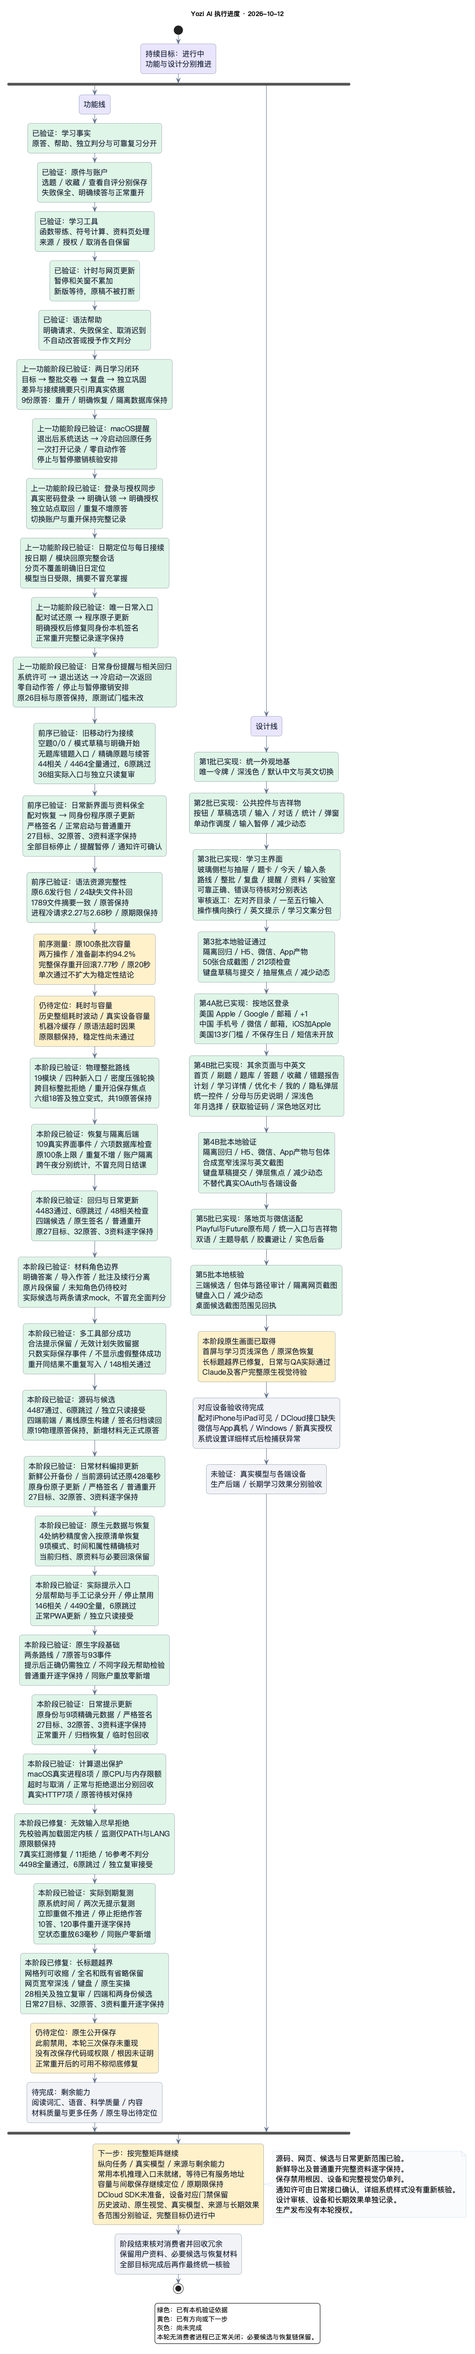
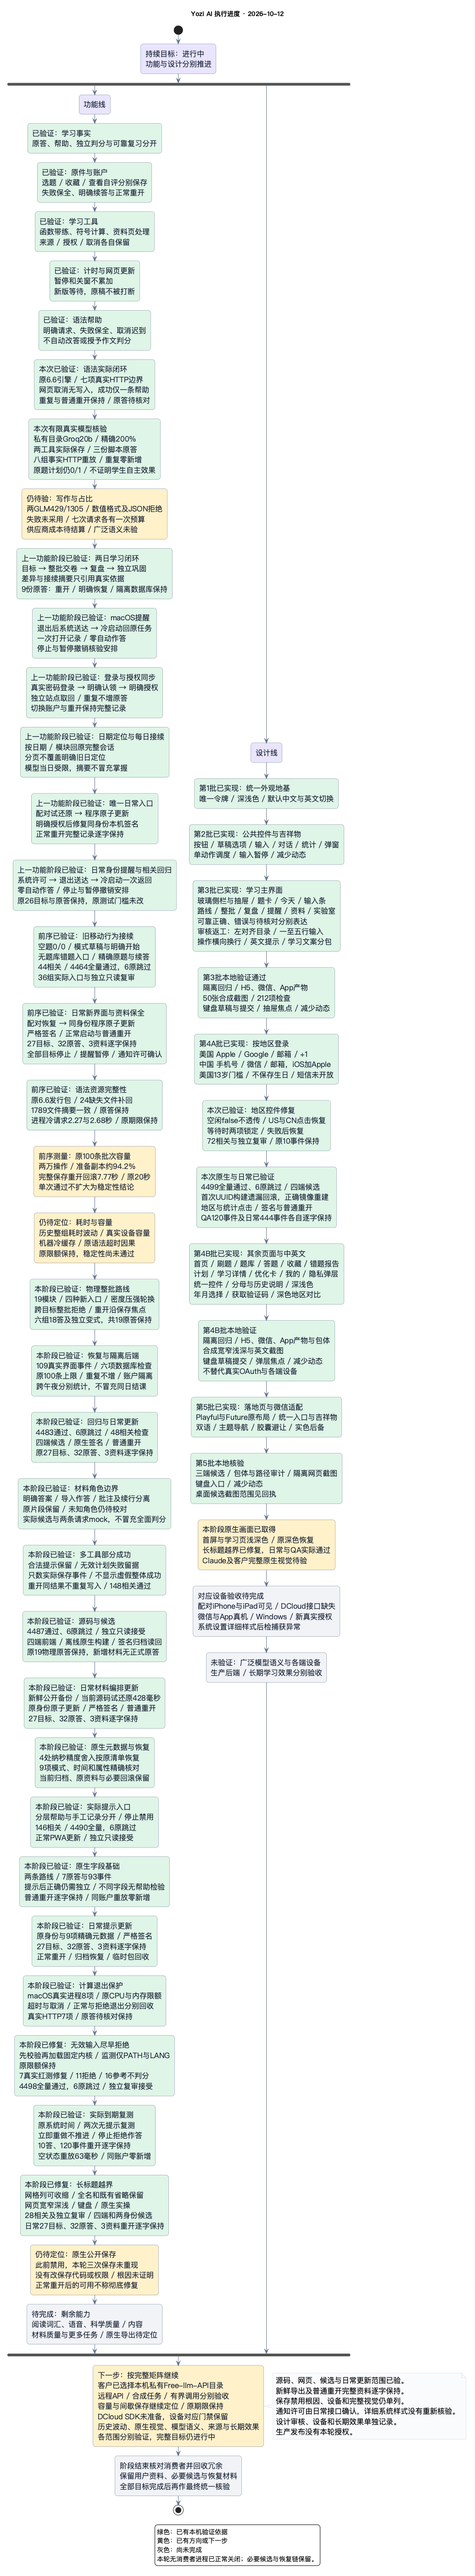
fix(learning): restore segmented controls and verify live model facts
Consume group disabled state and retain per-option focus guards.

Record native rollback, paired data and ordinary reopen acceptance.
Clarify numeric probes and compare every synced learning fact array.
Keep failed provider, format, device and semantic gates explicit.

Changed region(s): [[0.0309, 0.0, 0.9275, 0.999], [0.4019, 0.281, 0.742, 0.6556]]

diff --git a/tests/unit/yozi-components.spec.js b/tests/unit/yozi-components.spec.js
@@ -143,6 +143,41 @@ describe('canonical controls and drafts', () => {
     await w.findAll('button')[0].trigger('keydown', { key: 'End' });
     expect(w.emitted('update:modelValue').at(-1)).toEqual(['all']);
   });
+  it('segmented accepts idle selection and blocks pointer and keyboard selection while disabled', async () => {
+    const w = render(BaseSegmented, {
+      options: [
+        { value: 'US', label: '美国' },
+        { value: 'CN', label: '中国' },
+        { value: 'closed', label: '关闭', disabled: true }
+      ],
+      modelValue: 'US',
+      label: '地区',
+      disabled: false
+    });
+    // A fallthrough disabled="false" still matches the global [disabled] style.
+    expect(w.attributes('disabled')).toBeUndefined();
+    const tabs = w.findAll('[role="tab"]');
+    await tabs[1].trigger('tap');
+    await tabs[2].trigger('tap');
+    expect(w.emitted('update:modelValue')).toEqual([['CN']]);
+    await w.setProps({ disabled: true });
+    expect(tabs.every((tab) => tab.attributes('disabled') !== undefined)).toBe(true);
+    expect(tabs.map((tab) => tab.attributes('tabindex'))).toEqual(['-1', '-1', '-1']);
+    // Test Utils skips trigger() on disabled buttons; dispatch reaches the guards.
+    tabs[0].element.dispatchEvent(new Event('tap', { bubbles: true }));
+    tabs[0].element.dispatchEvent(new KeyboardEvent('keydown', { key: 'ArrowRight', bubbles: true, cancelable: true }));
+    await nextTick();
+    expect(w.emitted('update:modelValue')).toHaveLength(1);
+    await w.setProps({ disabled: false });
+    expect(w.attributes('disabled')).toBeUndefined();
+    expect(tabs[2].attributes('disabled')).toBeDefined();
+    expect(tabs.map((tab) => tab.attributes('tabindex'))).toEqual(['0', '-1', '-1']);
+    tabs[1].element.dispatchEvent(new Event('tap', { bubbles: true }));
+    tabs[0].element.dispatchEvent(new KeyboardEvent('keydown', { key: 'ArrowRight', bubbles: true, cancelable: true }));
+    await nextTick();
+    expect(w.emitted('update:modelValue')).toEqual([['CN'], ['CN'], ['CN']]);
+    expect(document.activeElement).toBe(tabs[1].element);
+  });
   it.each(['neutral', 'violet', 'mint', 'coral', 'apricot'])('renders the %s flat tag', (tone) =>
     expect(render(BaseTag, { tone }, { default: 'Status' }).classes()).toContain(`base-tag--${tone}`)
   );

diff --git a/src/components/base/base-segmented/base-segmented.vue b/src/components/base/base-segmented/base-segmented.vue
@@ -5,6 +5,7 @@
     :class="{ 'is-block': block }"
     role="tablist"
     :aria-label="label"
+    :aria-disabled="disabled"
     @keydown="keydown"
   >
     <button
@@ -14,8 +15,8 @@
       role="tab"
       :aria-selected="modelValue === item.value"
       :tabindex="tabIndex(index)"
-      :disabled="item.disabled"
-      :aria-disabled="Boolean(item.disabled)"
+      :disabled="disabled || item.disabled"
+      :aria-disabled="disabled || Boolean(item.disabled)"
       @tap="select(index)"
     >
       {{ item.label }}
@@ -28,6 +29,7 @@ const props = defineProps({
   modelValue: { type: [String, Number], default: '' },
   options: { type: Array, default: () => [] },
   label: { type: String, required: true },
+  disabled: Boolean,
   block: Boolean
 });
 const emit = defineEmits(['update:modelValue']);
@@ -42,19 +44,20 @@ onMounted(() => {
 onBeforeUnmount(() => keyboardElement?.removeEventListener?.('keydown', keydown));
 
 function tabIndex(index) {
+  if (props.disabled) return -1;
   const selected = props.options.findIndex((item) => item.value === props.modelValue && !item.disabled);
   return index === (selected < 0 ? props.options.findIndex((item) => !item.disabled) : selected) ? 0 : -1;
 }
 function select(index) {
   const option = props.options[index];
-  if (option && !option.disabled) emit('update:modelValue', option.value);
+  if (!props.disabled && option && !option.disabled) emit('update:modelValue', option.value);
 }
 function keydown(event) {
   // uni H5 also emits a wrapped event; only the native DOM listener owns keys.
   // #ifdef H5
   if (!event.currentTarget?.querySelectorAll) return;
   // #endif
-  if (event.defaultPrevented) return;
+  if (props.disabled || event.defaultPrevented) return;
   const controls = [...event.currentTarget.querySelectorAll('[role="tab"]')];
   const index = controls.indexOf(event.target.closest('[role="tab"]'));
   if (index < 0 || !['ArrowLeft', 'ArrowRight', 'Home', 'End', 'Enter', ' '].includes(event.key)) return;

diff --git a/docs/08C-SCRIPTS-REFERENCE.md b/docs/08C-SCRIPTS-REFERENCE.md
@@ -4,11 +4,15 @@
 
 ## 当前候选与本机资源
 
+2026-10-12 地区控件修复复用同一构建目录与原生缓存，四端前端与两种原生身份实际核验通过；本机语法实际HTTP和网页回执沿 `verification.json` 的 `grammarHttpBoundaries`，控件修复、首次错误构建目录后的回滚和当前候选沿 `regionControlFix`。日常程序须从带原资料UUID适配的既有隔离镜像构建；仓库根构建即使签名通过，也不会因此接回原资料。当前归档在实际更新、公开完整导出及普通重开通过后才提升。
+
+本轮私有目录模型验收复用 `verify-learning-live.mjs --catalog <本机私有目录> --provider <已审核供应商> --backend-dir tmp/stage1-mobile-20261011/backend --tasks <单一任务>`，显式固定隔离Mongo URI并核对27189/4383无其他消费者。每次一个供应商请求，无自动重试/回退，不执行目录HTML或读取.env；记录沿 `verification.json.freeCatalogContinuation` 和 `free-catalog-zhipu-20261012/` 内各供应商/任务目录，目录名保留初始归属。接口深重放不读取模型目录、不增加模型调用；日常原资料及真实产品界面模型验收分别成立。
+
 当前候选已接续至 `tmp/stage1-mobile-20261011/`：前端 `dist/build/{h5,mp-weixin,app,desktop}`、后端 `backend/`、共享依赖的隔离构建源码 `build-source/`；当前签名程序归档固定为 `desktop-candidate.zip`，不保留可启动候选App。当前程序摘要及归档清单见该目录 `native-candidate-receipt.json`，原日常资料的逐字前后/重开核验和配对试还原见 `verification.json`。上一阶段成功程序在 `tmp/visual-build-20261001/resume-rubric-evidence-20261004/yozi-before/stage1-mobile-20261011/native/Yozi AI.stage1.app.zip`，与该目录原资料导出配对；更早原程序归档保留为必要恢复基线。以下旧候选及运行时只按仍有效的回退用途保留，不作为当前产物。
 
 随后材料/编排增量已更新上述四端前端目录，后端共享合同没有变化。正常重开后公开保存可用，取得新鲜备份并完成当前源码试还原、同身份原子更新、更新后与普通重开后导出逐字对照；签名归档由 `desktop-candidate.next.zip` 提升为固定 `desktop-candidate.zip`，全部文件/权限读回通过。物理阶段成功程序保留在同恢复目录 `Yozi AI.physics.app.zip`，与 `learning-records.before.json` 配对；所有新鲜导出确认与此完整资料逐字相同后，仅回收重复副本，观察时间和原路径留于机器回执。此前保存禁用在本轮三次公开保存中未重现，根因仍未证明。客户确认DCloud SDK尚未准备，对应设备门禁保持。
 
[2 lines of base64/hex data omitted]
 
 当前隔离源码镜像保留原CDN素材的APFS克隆作为后续构建输入，原素材不变。`copy-cdn-to-h5.mjs` 的cpSync会保留源目录符号链接，不能将源根简单链接到镜像，否则复制到已存在static时返回EEXIST；本轮镜像缺路径及该链接尝试的失败均保留。使用原素材的实际副本/克隆后标准H5构建通过，底层四端构建继续按下文隔离路径执行，不改上游或放宽产物检查。
 
@@ -16,7 +20,7 @@
 
 2026-10-12 的App连接器 `--build-only` 预检确认本机Apple SDK和配对iPhone/iPad可见，但DCloud Android类路径及iOS `DCUniModule.h` 未配置，未装配出插件。只阻塞对应原生设备验收；不绕过历史下载限制、不升级/恢复/重新配对设备。微信预算脚本按cwd下的 `dist/build/mp-weixin` 检查，不接受 `UNI_OUTPUT_DIR`；隔离候选须在上述阶段目录运行。临时Vite回放必须显式 `configFile:false`、`envDir:false`、`optimizeDeps:{noDiscovery:true,include:[]}`，避免默认环境加载和全仓入口扫描。
 
-本机验收产物都在忽略目录 `tmp/visual-build-20261001/resume-rubric-evidence-20261004/`，资源身份与回收记录沿其中的 `server.json`。当前前端与后端候选为 `journey-candidate/`（`dist/build/{h5,h5-ui-sync,desktop,mp-weixin,app}`、`backend`、实际两日恢复备份与原生归档），上一完整候选 `grammar-help-candidate/` 保留为回退，`bank-original-candidate/backend` 为必要后端基线；更早 `remaining-view-candidate/dist/` 已由两份候选覆盖，核对无消费者后已回收。Mac 原生构建继续复用 Rust 缓存 `desktop-material-prerequisite-target/`；独立 `cn.wangshiliang.wenli.qa.journey` 核验后归档为 `journey-candidate/desktop-qa.zip`，核验App已撤销注册并回收，不保留第二个可见入口。日常程序先仅更新可执行文件，后经客户明确授权修复同身份本机签名；完整重开记录及日常身份的退出提醒/一次返回均已核对，配对恢复链在`yozi-before/learning-journey/native/`。可选运行时在 `languagetool-trial/`、`docling-trial/`、`sympy-trial/`，阶段进度图渲染器在 `plantuml-renderer/`，生成当前完整图须设置 `PLANTUML_LIMIT_SIZE=12000` 与原 `PLANTUML_SECURITY_PROFILE=SANDBOX`（[官方图像尺寸说明](https://plantuml.com/faq)）。此前默认4096像素高度已截断底部；现1035×4779像素，剩余待办/说明/图例完整，Apple Vision CLI 在 `tmp/apple-vision-builds/`。日常程序 `/Users/blackdj/Applications/Yozi AI.app` 的回滚归档在 `yozi-before/*/native/`，按"最近两份已试还原"及必要增量依赖链保留。
+本机验收产物都在忽略目录 `tmp/visual-build-20261001/resume-rubric-evidence-20261004/`，资源身份与回收记录沿其中的 `server.json`。当前前端与后端候选为 `journey-candidate/`（`dist/build/{h5,h5-ui-sync,desktop,mp-weixin,app}`、`backend`、实际两日恢复备份与原生归档），上一完整候选 `grammar-help-candidate/` 保留为回退，`bank-original-candidate/backend` 为必要后端基线；更早 `remaining-view-candidate/dist/` 已由两份候选覆盖，核对无消费者后已回收。Mac 原生构建继续复用 Rust 缓存 `desktop-material-prerequisite-target/`；独立 `cn.wangshiliang.wenli.qa.journey` 核验后归档为 `journey-candidate/desktop-qa.zip`，核验App已撤销注册并回收，不保留第二个可见入口。日常程序先仅更新可执行文件，后经客户明确授权修复同身份本机签名；完整重开记录及日常身份的退出提醒/一次返回均已核对，配对恢复链在`yozi-before/learning-journey/native/`。可选运行时在 `languagetool-trial/`、`docling-trial/`、`sympy-trial/`，阶段进度图渲染器在 `plantuml-renderer/`，生成当前完整图须设置 `PLANTUML_LIMIT_SIZE=12000` 与原 `PLANTUML_SECURITY_PROFILE=SANDBOX`（[官方图像尺寸说明](https://plantuml.com/faq)）。此前默认4096像素高度已截断底部；现1035×5606像素，剩余待办/说明/图例完整，Apple Vision CLI 在 `tmp/apple-vision-builds/`。日常程序 `/Users/blackdj/Applications/Yozi AI.app` 的回滚归档在 `yozi-before/*/native/`，按"最近两份已试还原"及必要增量依赖链保留。
 
 2026-10-10 整理时，已被以上候选覆盖的 29 份旧候选构建和 4 份更早的原生回滚归档（共约 9.7 GB）移入废纸篓 `~/.Trash/EXAM-MASTER-cleanup-20261010/`，清单在 `tmp/cleanup-20261010/trash-manifest.tsv`；清空废纸篓前可原样移回。
 
@@ -28,9 +32,9 @@
 
 后端先 `tsc --outDir` 到隔离目录，再用 `laf-backend/standalone/package-runtime.mjs --output <项目 tmp 内相对路径>` 打包；绝对路径、`..` 和符号链接会被拒绝。打包成功后再链接既有 `standalone/node_modules`，不安装新包。`verify-backend-http.mjs` 固定使用正式 dist 和测试端口，不直接用于隔离候选。
 
-Mac 原生候选沿 `desktop-fields-v3-source`（与仓库只差既定 `data_store_identifier`）、`CARGO_TARGET_DIR=desktop-material-prerequisite-target` 和 `--no-bundle --no-sign -- --offline --locked --jobs 2`，只生成程序、不生成新的可见 `.app`。更新唯一入口前：先归档当前程序与配对学习记录并试还原（逐文件、模式、链接、扩展属性一致），确认程序无消费者后只原子替换可执行文件，标识、资料、图标和元数据保持。
+Mac日常原生候选当前沿 `tmp/stage1-mobile-20261011/build-source`（Rust主入口与仓库只差既定 `data_store_identifier`）、`native-config.json`、原 `CARGO_TARGET_DIR=desktop-material-prerequisite-target` 和 `--no-bundle --no-sign -- --offline --locked --jobs 2`，只生成程序、不生成新的可见 `.app`。构建前精确核对该一行适配及其余Cargo/业务组件摘要，不能只传相同identifier却从仓库根构建。QA身份仍采用独立资料UUID。更新唯一入口前：先归档当前程序与配对学习记录并试还原（逐文件、模式、链接、扩展属性一致），确认程序无消费者后只原子替换可执行文件，标识、资料、图标和元数据保持。
 
-本次日常更新沿`desktop-fields-v3-config.json`及原资料UUID，desktop/API备用地址均为空、不加载私有环境文件。已试还原的完整程序归档与learning-records.before.json保持；wenli-desktop.pre-ui-update.rollback是APFS增量副本，依赖完整归档的其余元数据，不能单独恢复整包。程序暂存严格核对后同目录原子更新，模式/xattrs/mtime保持。随后首次通知申请在许可前拒绝，客户明确批准同身份本机签名修复；先保存完整APFS回滚daily-before-signing.rollback.noindex及revision438公开备份，再在未注册暂存包执行`codesign --force --sign - --identifier cn.wangshiliang.wenli.localqa93d5ef76c442 --timestamp=none <暂存App路径>`。只安装签名程序和Contents/\_CodeSignature，既有内容/元数据与资料保持；暂存及唯一入口的`codesign --verify --strict --verbose=2 <App路径>`均通过。当前为ad-hoc、无TeamIdentifier，不代表正式签名/公证或自动赋予后续重签权限。
+前序日常界面更新沿`desktop-fields-v3-config.json`及原资料UUID，desktop/API备用地址均为空、不加载私有环境文件。已试还原的完整程序归档与learning-records.before.json保持；wenli-desktop.pre-ui-update.rollback是APFS增量副本，依赖完整归档的其余元数据，不能单独恢复整包。程序暂存严格核对后同目录原子更新，模式/xattrs/mtime保持。随后首次通知申请在许可前拒绝，客户明确批准同身份本机签名修复；先保存完整APFS回滚daily-before-signing.rollback.noindex及revision438公开备份，再在未注册暂存包执行`codesign --force --sign - --identifier cn.wangshiliang.wenli.localqa93d5ef76c442 --timestamp=none <暂存App路径>`。只安装签名程序和Contents/\_CodeSignature，既有内容/元数据与资料保持；暂存及唯一入口的`codesign --verify --strict --verbose=2 <App路径>`均通过。当前为ad-hoc、无TeamIdentifier，不代表正式签名/公证或自动赋予后续重签权限。
 
 learning-records.before-signing.json与learning-records.after-signing.json完整字节相同；最终learning-records.after-reminder.json经公开导出、原事实前缀核对和内存试还原444操作，合成目标已停止、提醒已暂停、本次打开仅1、新增原答0。私有记录0600；签名暂存已核对与安装内容相同、无消费者后回收，必要完整回滚和配对资料保留。程序、记录与实际提醒证明见[08](08-TESTING-INFRA.md)。本轮preview10725、Mongo677、backend15408及日常进程均已关闭，合成数据库保留供后续独立复核，重新使用时须核对消费者再启用隔离配置。
 

diff --git a/docs/12-CHANGELOG.md b/docs/12-CHANGELOG.md
@@ -1,5 +1,33 @@
 # 重要变更
 
+## 2026-10-12：私有免费目录的真实数值模型核验
+
+客户明确选择本机Free-llm-API目录，沿既有AST解析器取用选定供应商/端点的凭据；不执行HTML、不复制原文或密钥、不读取.env/其他credentials文件。目录在本机，API仍为远程供应商，仅发送自编合成材料。原始密钥在内存取用，既有保险库在隔离Mongo加密暂存，试验后数据库及临时库文件删除，日常原资料没有用于这些调用。
+
+七次各有一次调用预算的独立试验：智谱及Z.ai的GLM-4.7-Flash写作均被429/1305拒绝；[智谱官方](https://docs.bigmodel.cn/cn/api/api-code)将1305解释为模型访问量过大，Z.ai相同代码含义未另行映射。Groq的gpt-oss-20b四次返回真实结构JSON：两次缺核对行、一次通过、一次带分数33 1/3%超出现有解析范围；带分数与100/3%等价，不判为数学错误。最后一次明确单一分数请求被上游400/json_validate_failed拒绝，失败均保留，写作与占比继续待验。[智谱定价](https://docs.bigmodel.cn/cn/guide/start/pricing)、[Z.ai定价](https://docs.z.ai/guides/overview/pricing)和[Groq免费方案限额](https://console.groq.com/docs/rate-limits)本轮已核对，不由目录快照推断当前可用性或账户账单。
+
+小数增长率一次真实调用通过精确200%与宿主来源重构比较，hint/plan取得两条实际成功收据。三份脚本作答保留原199.999999%错答、200%提示后修正及不同字段100/3%无提示变式正确；不作为学生自主学习或长期效果证据。原题计划仍0/1，原错答、带提示修正与不同题目键的变式均不满足原题无提示正确条件。有限精确核对不升级为一般语义或官方评分通过。
+
+验收请求将核对要求放到开头并明确最后一行、单一分数格式；未提供期望答案，原解析/来源比较/三工具及五秒期限保持。独立只读ultra复审接受前一提示澄清及计划0/1边界，指出原同步检查较浅；随后新增八组事实数组逐字段断言。另用既有成功小数与被拒绝占比记录做零模型调用的真实JWT/隔离Mongo重放：会话、题目、资料、原答、计划、执行收据、复习及事件一致，重复补传零新增，其他账户无原答。
+
+最终相关5文件179项通过，前一2文件46项保留；客户端业务及原生程序未因模型验收改动，地区控件全量4499项/6原跳过按前项实测范围保留。七次供应商账均actualCost=null/costStatus=pending，平台spent=0不代表供应商零费用。全部自有后端/Mongo正常回收，八次隔离数据库删除；合成记录和失败证据沿[现有回执](../tmp/stage1-mobile-20261011/verification.md)。真实产品界面模型链路、占比/写作、广泛质量、费用、设备、公共来源、生产及自然长期效果分别待验，完整目标继续进行中。
+
+## 2026-10-12：语法真实HTTP闭环与地区控件禁用修复
+
+真实LanguageTool6.6、Express/JWT与隔离Mongo通过七项边界：鉴权、账户隔离、伪造原答/引擎地址拒绝、基本规则建议、原20秒传输期限、断开及停止/明确恢复重试。原15秒引擎、20秒传输、2000字符、64KiB/40处输出及内存配置保持；延迟真实结果只证明网络等待与迟到处理，不称Java计算已瞬间停止。首次停止探针漏掉继续任务的self_report来源被正常拒绝，修正探针后通过，未修改或放宽业务合同。
+
+实际H5沿已有邮箱登录、明确提交英文原答及授权同步进入检查。确认弹层取消零引擎请求；真实引擎已算出结果后取消等待，迟到结果丢弃，本地与数据库仍6事件。正常重试仅增加1条帮助，重复检查与普通关闭重开导出逐字一致；正常停止与再次授权同步后10事件、1原答、1语法帮助、0可靠复习。原答与初始导出逐项相同，仍pending且原提示0。[实际画面](../tmp/stage1-mobile-20261011/grammar-http-SHzH5k/grammar-help-web.jpg)，[完整回执](../tmp/stage1-mobile-20261011/verification.md)。没有模型调用、公共语法服务或真实用户资料。
+
+另复现登录地区点击不响应而键盘可切换：BaseSegmented未声明disabled，空闲false透传成根属性disabled="false"，命中全局禁用样式，子按钮继承pointer-events:none。现声明组件Boolean属性并控制各选项，空闲不透传，组禁用时全部选项退出Tab顺序、选择和键盘均有守卫；解除后单项禁用与原焦点顺序保持。没有删除全局保护、改语言或放宽登录busy检查。
+
+一项真实红测先复现根属性false，相关4文件72项通过。独立只读复审指出VTU会跳过禁用按钮的trigger，已改直接派发tap/可取消keydown，加入恢复、单项禁用、正向选择及焦点断言；首次自建不可取消键盘事件重复处理的失败日志保留，修正探针后72项通过并获复审接受。实际新版网页普通关闭重开接纳更新，US/CN点击生效；受控真实登录等待时两按钮禁用、Tab均-1，工具拒绝对禁用目标发键，真实H5键盘派发不由该拒绝推定，守卫另由上述测试证明。原30秒登录超时仍可恢复，正常真实邮箱重试抵达首页，同一学习10事件导出逐字一致。[修复后画面](../tmp/stage1-mobile-20261011/grammar-http-SHzH5k/region-idle-web.jpg)。
+
+最终全量4499项通过/6原跳过、266文件通过/1原跳过，152.28秒；相关72项及独立只读复审通过。四端前端通过，微信主包333文件1,844,109字节、媒体19文件181,028字节，App产物0阻塞。两种身份的离线原生构建、严格签名、完整归档读回及实际试还原分别核验，不把编译成功当成资料接续成功。
+
+QA候选实际US→CN→US及今天→全部历史→今天点击通过，更新前后及普通重开的公开导出与原10答/120事件逐字相同。日常首次候选从仓库根构建，遗漏隔离镜像中既有的资料UUID适配，启动进入首次使用页；没有点击引导、恢复合并或新增作答。正常退出后只回滚程序，公开导出与原444事件逐字相同，再从正确镜像重建，业务源码及资料没有为此改动。修正后的日常候选地区及统计点击、严格签名与普通重开均通过，更新前后及重开的完整导出与原27目标/32原答/3资料逐字相同，停止及提醒暂停保持。只有通过后才提升固定归档；首次失败、回滚及修正证据保留。重开进程PID在退出前漏记，已正常Quit并按精确程序路径核验无运行进程，不补造进程记录。
+
+当前与上一成功程序、QA前序事实及日常完整资料按[恢复映射](08C-SCRIPTS-REFERENCE.md#当前候选与本机资源)保留。临时服务、网页及原生程序正常收尾，已启动QA撤销注册成功；核对归属、活跃引用与配对归档后回收临时App、raw副本、可再生测试输出及逐字重复导出，共2,813,057,560逻辑字节，观察磁盘可用增加2,122,387,456字节，含并行活动，不等同于RAM或等量空间释放。必要失败日志、合成回执、当前归档、源码镜像、编译缓存与回滚链保持。完整原生视觉继续待验；DCloud SDK尚未准备，其他设备及完整矩阵继续接续，不安装新框架、不推送或部署。
+
 ## 2026-10-12：侧栏长标题收缩与日常原生更新
 
 网页及Mac原生的长会话名称曾撑开目录网格，选中背景跨出侧栏。实际1280×720网页复现可用198像素但自动列/按钮252像素，越界54像素；只给现有导航与最近会话网格设可收缩列，复用原省略号和按钮。新网页深浅色列198像素、390×844抽屉246像素均不越界，完整目标及无障碍名称保持，键盘Enter与抽屉Escape正常；正常关闭所有核验页再打开接纳新PWA版本，没有清缓存或隐藏操作。独立只读复审接受该行与原组件关系，未扩大为完整设计通过。

diff --git a/docs/13-DEVELOPMENT-PLAN.md b/docs/13-DEVELOPMENT-PLAN.md
@@ -42,7 +42,23 @@
 4. 提醒至少分别记录设置成功、到期触发、平台接纳、真实送达与点击返回；不把页内提示或API返回冒充关闭应用后的系统通知。平台申请/权限/设备实际不可用只阻塞对应验收，其余工作继续。
 5. 同步受影响的01/03/04/05/06/07合同、12变更、本计划与既有PlantUML进度图；每个独立阶段用业务语言汇报结果、依据和剩余项。完成矩阵保留未验证项，完整目标未满足时继续进行，不以测试数量或构建全绿替代闭环。
 
-## 最新阶段的费曼汇报：长标题回到侧栏内
+## 最新阶段的费曼汇报：语法取消闭环与地区切换恢复
+
+用真实语法引擎和本机隔离后端走完了网页检查流程：先明确作答并授权同步，取消时不留下帮助，成功时只保存一条建议，重复检查与普通重开保持相同记录。原答没有被改写，仍待核对，也没有新增可靠复习。实际HTTP另验鉴权、隔离、拒绝伪造、原期限、断开、停止与明确恢复；网络延迟与Java计算超时分别说明，历史冷启动波动仍待定位。
+
+网页实操发现地区按钮空闲时被错误禁用，键盘却能切换。现由公共组件正确接收禁用状态：空闲恢复点击，登录等待时全部选项锁定，失败后恢复。相关72项及全量4499项回归通过，保留6原跳过，独立只读复审接受；实际登录重试及原10条学习事件逐字保全，四端候选通过。
+
+原生QA与唯一日常程序实际地区/统计点击及普通重开分别通过，原10答/120事件与日常27目标/32原答/3资料各自逐字保持。首次日常候选遗漏既有资料UUID构建适配，进入引导页；没有迁移或写入新空域，回滚后完整资料保持，再从正确镜像重建并验收后提升归档。当前与上一成功程序均可恢复，临时程序与重复输出已回收；完整原生视觉仍单列。
+
+依据见[本阶段变更](12-CHANGELOG.md#2026-10-12语法真实http闭环与地区控件禁用修复)、[公共控件合同](07-STYLING-SYSTEM.md#公共组件)与[现有回执](../tmp/stage1-mobile-20261011/verification.md)。DCloud SDK尚未准备；对应设备、Windows、真实模型、公开题源、完整设计、生产与长期效果继续分别验收，完整目标保持进行中。
+
+### 本次私有目录模型接续
+
+本次模型接续已按客户选择使用本机Free-llm-API目录，实际调用远程供应商，只发送合成材料。一个Groq小数增长率样例取得精确200%核对及两条工具收据；原错答、提示后修正与不同字段无提示变式分别保存。两份记录的八组事实数组真实后端重放逐字段一致、重复零新增、账户隔离通过，相关179项回归通过。原题计划仍0/1，脚本正确答案不证明学生自主学习，有限样例不证明广泛语义。
+
+两GLM写作请求返回429/1305，占比先后缺核对行、带分数超出当前解析范围及上游JSON拒绝，均保留待验。原始密钥仅在内存取用，隔离加密保险库试验后删除，日常资料保持；七次供应商成本均待结算。真实产品界面模型链路与完整矩阵继续推进，依据见[数值模型核验](12-CHANGELOG.md#2026-10-12私有免费目录的真实数值模型核验)及[现有回执](../tmp/stage1-mobile-20261011/verification.md)。
+
+### 前序侧栏更新继续有效
 
 学习目标较长时，目录会把自身撑宽，选中背景伸进学习内容区。现在让目录列按侧栏宽度收缩，显示不下的名称沿用省略号；完整目标仍保留，导航、作答和停止规则不变。网页深浅色、窄屏抽屉、原生核验与日常程序实操通过，独立复审接受这个具体修复，完整视觉继续待验。
 
@@ -56,7 +72,7 @@
 
 依据为原7答/93事件断点与当前10答/120事件；新增两次可靠复测及一次立即重做。原题、资料、原答与旧安排日期/证据保持，只有两份被新安排替代的旧记录标记取消。空状态重放约63毫秒通过原期限，同账户零新增。无业务代码、日常程序、模型或时钟变更，复用前序回归和候选。临时程序正常关闭并核验归档，重复产物按既有规则整理；详见[本阶段变更](12-CHANGELOG.md#2026-10-12原生实际到期复测立即重做与停止保护)与[现有回执](../tmp/stage1-mobile-20261011/verification.md)。
 
-常用本机推理端口及已知安装路径未就绪，已请求其他已有服务地址，未读取私有目录凭据或安装模型。客户确认DCloud SDK尚未准备；Windows、对应设备、真实模型、公共题源、受保护生产和长期效果门禁保持，完整目标继续进行中。
+前序复测时常用本机推理入口未就绪；客户随后明确选择本机Free-llm-API私有目录。当前沿既有解析器、明确供应商/型号和有界合成任务接续真实验收：目录位于本机，所列API仍是远程供应商，不宣称本地推理或资料不出机。原始密钥仅内存取用，隔离保险库沿既有加密合同并在试验后删除，不执行HTML、不复制密钥、不读取.env或其他credentials文件，不上传日常原资料；失败回执、供应商成本待结算及语义边界分别保留。客户确认DCloud SDK尚未准备；Windows、对应设备、公共题源、受保护生产和长期效果门禁保持，完整目标继续进行中。
 
 ### 前序计算辅助范围继续有效
 

diff --git a/docs/04-API-DOCUMENTATION.md b/docs/04-API-DOCUMENTATION.md
@@ -749,6 +749,8 @@ Store内临时`visualRequest`增加`owner`和`learningContext`，组件同时核
 
 默认LEARNING_LANGUAGE_TOOL_ENABLED非true或URL缺失返回不可用；客户端不改用公共语法API、模型或收费服务。共享学习核心仍支持原SymPy参考，两个帮助合同按类型分开复用。冷加载曾超时，明确错误后可重试；限额不放宽，稳定性独立待验。[实测](08-TESTING-INFRA.md)。
 
+2026-10-12 接续验收使用原6.6引擎、真实Express/JWT和隔离Mongo：鉴权、账户隔离、伪造原答/地址拒绝、原20秒传输期限、断开、停止及明确恢复后的重试通过。传输故障由本机网关延迟真实引擎结果，不冒充Java计算超时。实际网页从密码登录、明确作答及授权同步进入检查：取消无帮助记录，成功仅保存一条帮助，重复与普通重开逐字保持；原答仍pending、原提示0、可靠复习0。恢复任务仍要求 `source=self_report`；首次探针遗漏该标记被正常拒绝，修正探针后通过，没有放宽合同。[回执](../tmp/stage1-mobile-20261011/verification.md)。
+
 ### 中文材料论证合同
 
 新增chinese-material-argument-v1/material_argument，四份Yozi AI原创情境分别讨论阅读角、社区花园、阅读方式和午餐分量。每题三段完整材料、不同意见与观察范围包含在规范prompt，明确“合成观察，不是真实统计”；不复制外部语料，不声明官方任务或标准答案。来源/体裁/taskId/对话/材料/量表/原答与原时区明日日期按现有写作合同重建，修改材料、删除范围、伪造客观规则或剥除写作字段但仍声明本合同均拒绝。

diff --git a/docs/07-STYLING-SYSTEM.md b/docs/07-STYLING-SYSTEM.md
@@ -65,6 +65,8 @@ pages.json 的页面标题和导航文字使用 `%pages.xxx%` / `%nav.xxx%`；[s
 
 ## 公共组件
 
+BaseSegmented 的 `disabled` 是组件自身的 Boolean 属性，默认可用。组禁用时全部选项退出 Tab 顺序，指针与键盘选择均拒绝；解除后恢复选项原有焦点顺序，单项禁用继续保留。空闲状态不将 `disabled="false"` 透传给根节点，避免全局 `[disabled]` 样式误挡地区切换；登录处理器仍独立检查忙碌状态。选区不改变语言或提交学习事实。
+
 现行组件位于 [src/components/base](../src/components/base/)，复用既有 BaseIcon、BaseCard、BaseEmpty；浮层继续使用 [CustomModal.vue](../src/components/common/CustomModal.vue)。各类只有一个渲染实现，Wot 通过现行主题变量与按钮/加载薄包装接入，不修改依赖源码。页面自己的旧按钮、选项、统计、输入和弹窗在第3/4批逐页迁移；各页按下方现行章节接入。
 
 | 组件                                  | 现行用法                                                                                                                                                                                                                                                                                                                           |
